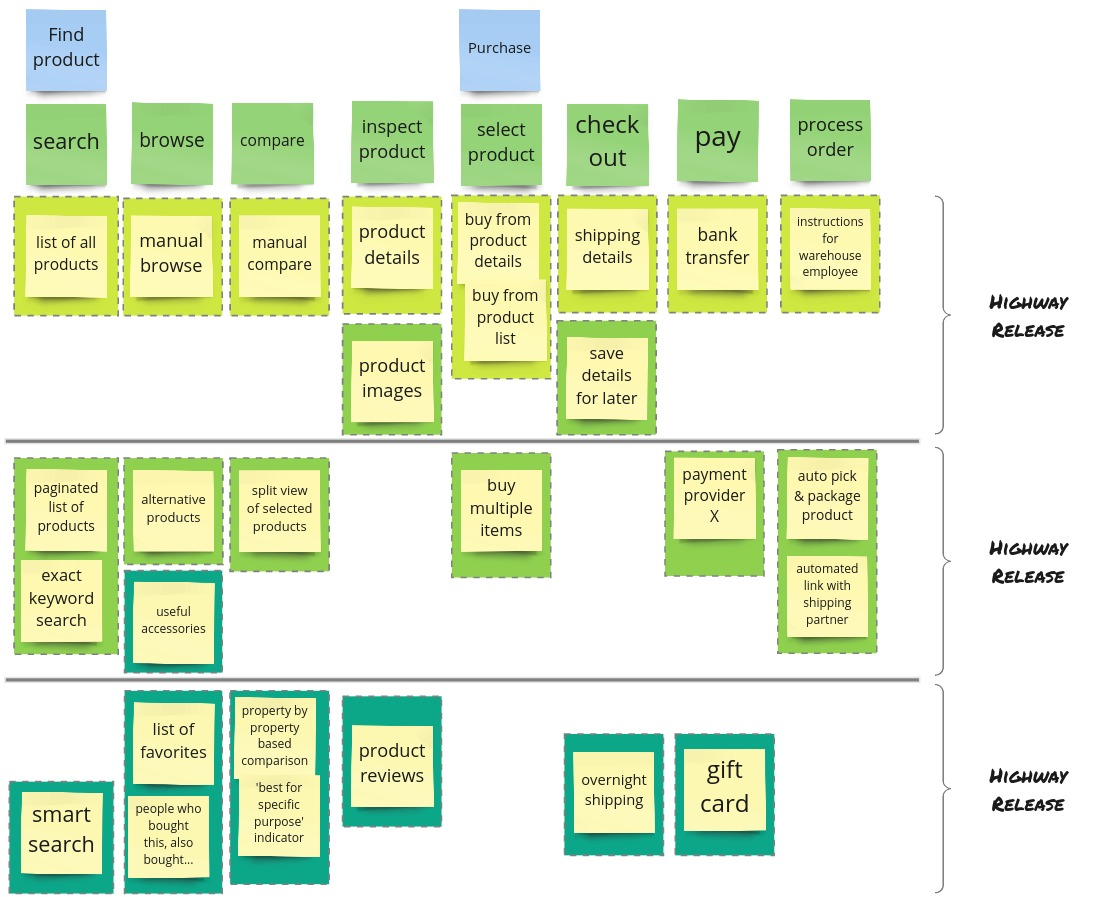
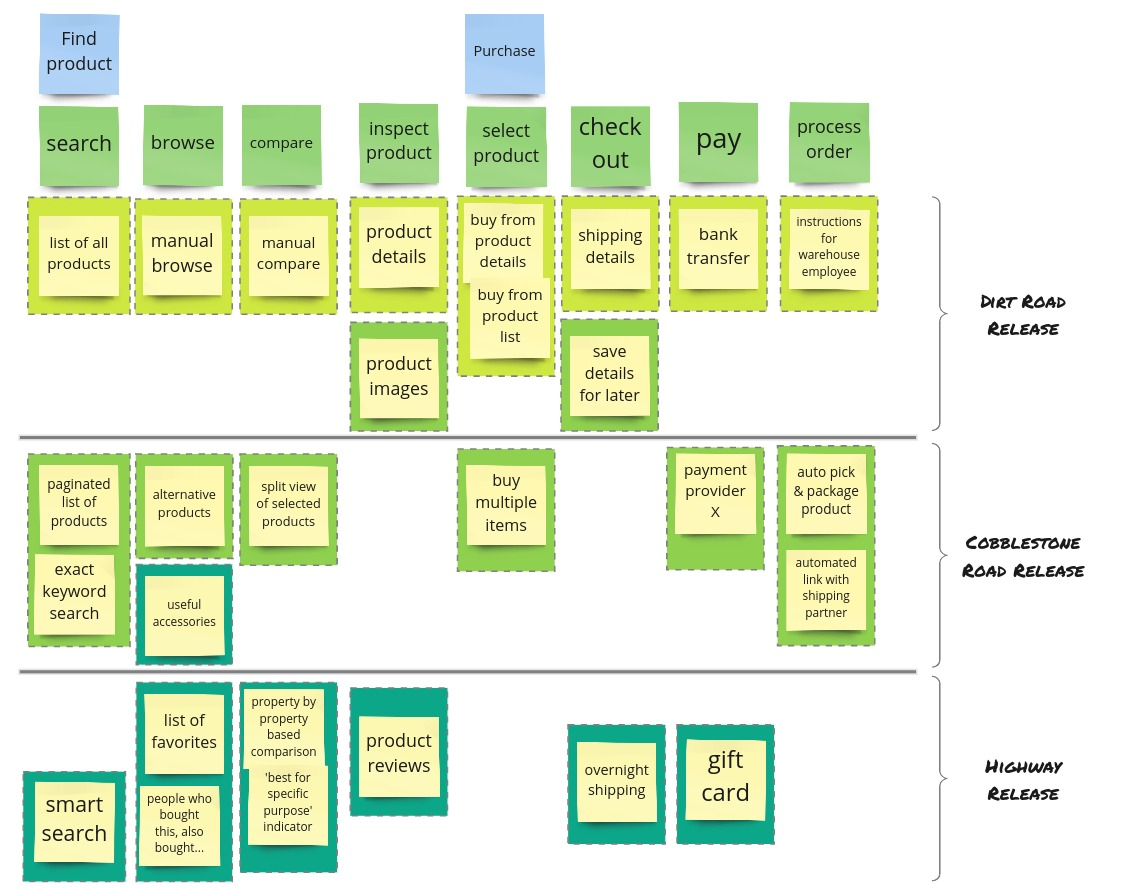
improved text, fixed image

diff --git a/_drafts/dimensional-planning-2.md b/_drafts/dimensional-planning-2.md
@@ -11,10 +11,10 @@ image: /attachments/blogposts/2020/dimensions-features.jpg
 In a previous post, we [introduced the Dimensional Planning
 technique](/2020/09/02/dimensional-planning.html), and shared [how we used this
 for a product we worked on](/2020/09/30/dimensional-planning-a-story.html). In
-this post, we will go more in depth with this technique and show how you can use
-the roads metaphor not only for releases of a product, but for individual
-features as well. This provides a fine-grained mechanism for planning and
-realizing small, valuable increments.
+this post, we will go more in depth and show how you can use the roads metaphor
+not only for releases of a product, but for individual features as well. This
+provides a fine-grained mechanism for planning and delivering small, valuable
+increments.
 
 - [Product level dimensions](#product-level-dimensions)
 - [Feature level dimensions](#feature-level-dimensions)
@@ -24,86 +24,90 @@ realizing small, valuable increments.
 
 ## Product level dimensions
 
-We can apply dimensional planning for a software product at two levels: at the
-product level and at the feature level. In the previous posts, we focused mainly
-on Dirt Road/Cobblestone Road/Highway dimensions of a product. 
+We can apply dimensional planning for a software product at two levels: product
+level and feature level. In the previous posts, we focused mainly on product
+level dimensions - the Dirt Road / Cobblestone Road / Highway versions of a
+product. 
 
 The Dirt Road version is a minimal set of functionality, where the guiding
-question is **what can we leave out?**. A Dirt Road web shop could have a
-product catalogue and a shopping basket, but supply management, payment and
-order processing are still manual processes.
-
-The Cobblestone Road version of a product is a **good enough** version, it does
-the job, but no more than that. The Highway version is a full blown
-implementation, where the guiding question is **what do we still want to pay
-for?**
+question is **what can we leave out?** A Dirt Road web shop could have a
+product catalogue and a shopping basket, while we keep supply management,
+payment and order processing as manual processes. The Cobblestone Road version
+does the job, but not more than that. The guiding questions is **is it good
+enough?** The Highway version is a full blown implementation, where the guiding
+question is **what do we still want to pay for?**
 
 ![dimensions of a product](/attachments/blogposts/2020/dimensions-releases.jpg)
 {: class="post-image post-image-50" }
 
 ## Feature level dimensions
 
-We can also look at a single feature and define Dirt Road/Cobblestone
-Road/Highway dimensions for that feature. Let's look at features of a web shop. The dimensions of the _Search_ feature could be: 
-- _Dirt Road_: just show list of all products, and lets the user use the browser search in page functionality;
-- _Cobblestone Road_: offer keyword search with exact matching;
-- _Highway_: provide smart search using word similarity and a list of synonyms
+We can also look at a single feature and define Dirt Road, Cobblestone
+Road & Highway dimensions for that feature. Let's look at features of a web shop. The dimensions of the _Search_ feature could be: 
+- _Dirt Road_ - just show list of all products and let the user use the browser search functionality;
+- _Cobblestone Road_ - offer keyword search with exact matching;
+- _Highway_ - provide smart search using word similarity and a list of synonyms.
 
-We can define dimensions for other features as well, for instance for order
-processing, or define dimensions based on quality requirements. An example of
-the latter for the Product Catalogue is a Dirt Road version for a limited
-catalogue of say max 30 products, which is shown fully. The Cobblestone Road
-version supports way more products with pagination (and possibly lazy loading). 
+We can define dimensions for instance based on quality requirements: the Dirt
+Road for the Product Catalogue could be a limited catalogue of say 30 products,
+which is shown fully. The Cobblestone Road version supports way more products
+with pagination and possibly lazy loading. 
+
+Having defined dimensions of features, you can base your product releases on this, as illustrated below.
 
 ![dimensions of features, fine-grained planning](/attachments/blogposts/2020/dimensions-features.jpg)
 
-You could call the dimensions of a feature (or story) this **alternate depths**
-of this feature. We elaborate the feature in several iterations, going from a
-shallow implementation (sometimes a manual workaround) to a full blown version
-with all bells and whistles. So dimensions of a feature embody **true iterative
-working** and a feature or user story can repeatedly show up in the backlog,
-with different dimensions.
+You could call the dimensions of a feature or user story **alternate depths** of
+this feature. We elaborate the feature in several iterations, going from a
+shallow implementation or manual workaround to a full blown version with all
+bells and whistles. So feature dimensions embody **true iterative working**.
+This means that a feature or user story can repeatedly show up in the backlog,
+for different dimensions.
 
-There are no hard rules for what is Dirt Road and what is Cobblestone Road.
-Instead, the feature dimensions are the result of negotiation, based on the
-guiding questions _what can we leave out_ and _what is good enough_, with
-respect to the intended product outcomes.
+There are no hard rules for what a Dirt Road version and what a Cobblestone Road
+version of a feature is. Feature dimensions result from negotiation of the development team and their business or customer, guided by _what can we leave out_ and _what is good enough_ to achieve intended outcomes.
 
 ## An example of feature dimensions
 
-This gives us a more fine-grained way of planning and negotiation. It provides
-more options to scale down a planned feature, e.g. from Highway to Cobble or to
-Dirt when we want to deliver at a specific date. 
+Having feature level dimensions provides a more fine-grained way of planning and
+negotiation. It provides more options to scale down a planned feature, e.g. from
+Highway to Cobblestone or Dirt Road when we want to deliver something valuable
+sooner.
 
-The picture below shows part of a user story map for a web shop, which has
-features like Search, Browse, Compare, Check out, and Pay.
+The picture below shows part of a user story map for a web shop, with features
+like Search, Browse, Compare, Check out, and Pay.
 
 ![example story map](/attachments/blogposts/2020/dp-story-map-1.jpg)
 
-We can define on dimensions for the features. The Search Dirt Road is the list
-of products, while the Compare feature the Dirt Road is a manual workaround:
-buyers can compare product details themselves, for instance by opening the two
-products in separate browser tabs. The Dirt Road Pay feature is pay by bank
-transfer: the web shop shows bank account details (so also a manual version).
-Payment provider integration is Cobblestone Road, offering & redeeming gift
-cards is the Highway for now. 
-
-![example story map with dimensions for features](/attachments/blogposts/2020/dp-story-map-2.jpg)
+We can define dimensions for the features. The Search Dirt Road is a simple list
+of products, while the Compare Dirt Road is a manual workaround: buyers can
+compare product details themselves, for instance by opening two products in
+separate browser tabs. The Pay Dirt Road is payment by bank transfer: the web
+shop shows just bank account details, the rest is manually processed.
+Integrating with a payment provider is Cobblestone Road, gift cards are the
+Highway for now.
 
 For Inspect Product, the minimal version is showing the details, because
 otherwise buyers do not have sufficient information to decide to buy. The
 Cobblestone Road includes images.
 
-Dirt Road Order Processing is mostly a manual process: the system shows
-information for the warehouse employee who will search & package the order. We
-first want to test the market before investing in order processing automation.
+Dirt Road Order Processing is mostly manual: the system shows information for
+the warehouse employee who will search & package the products. We first want to
+test the market before investing in order processing automation.
+
+![example story map with dimensions for features](/attachments/blogposts/2020/dp-story-map-2.jpg)
+
+Having different dimensions of the Pay feature enables team negotiation about
+how well do we want to do the Pay feature, what is good enough and what more are
+we willing to invest in.
 
 ## Fine grained planning & steering
 
 Based on the dimensions of features, we can decide on Dirt Road and Cobblestone
-Road releases. We decide to include product images and save details for later
-for now in the Dirt Road release, although they are probably the first to move
-out when we have to reduce scope for the first release.
+Road releases for the web shop. We decide to include product images and save
+details for later for now in the Dirt Road release, although they are probably
+the first thing to be moved out when we need to reduce scope for the first
+release.
 
 ![example story map with releases](/attachments/blogposts/2020/dp-story-map-3.jpg)
 
@@ -113,18 +117,19 @@ enough.
 
 ## Summary
 
-We can apply the Dirt Road-Cobblestone Road-Highway metaphor of Dimensional
+We can apply the Dirt Road - Cobblestone Road - Highway metaphor of Dimensional
 Planning not only to whole releases, but also to individual features. We can
-define Dirt Road, Cobblestone Road, and Highway versions of a feature.
+define Dirt Road, Cobblestone Road, and Highway versions of a feature, for
+instance based on different quality requirements.
 
-This facilitates iterative development of features and user stories. A story can
-occur multiple times in the backlog, in different versions. By defining the Dirt
-Road story and starting with that, this reduces the risk of story perfectionism
-and analysis paralysis. 
+This facilitates iterative development of features and user stories. A user
+story can occur multiple times in the backlog, in different versions. By
+defining the Dirt Road story and starting with that, this reduces the risk of
+story perfectionism and analysis paralysis. 
 
-Dimensions of features also facilitates fine grained planning, tracking and
-steering. Instead of all-or-nothing decision when reducing scope - should we
-remove or include this story? - we can decide to reduce the 'depth' of a story.
+Feature dimensions also facilitate finer grained planning, tracking and
+steering. Instead of all-or-nothing decisions for reducing scope - _should we
+remove or include this story?_ - we can decide to keep a story but reduce its depth.
 
 User story dimensions provide an extra way of splitting large user stories, in a
 true iterative way. In this way, dimensions enable the _Negotiable_ property of
@@ -134,7 +139,7 @@ stories](https://xp123.com/articles/invest-in-good-stories-and-smart-tasks/).
 ## References
 
 The idea of applying dimensions to both releases and features originates from
-Koen Van Exem (inventor of Dimensional Planning. He calls them _Alternate
+Koen Van Exem, the inventor of Dimensional Planning. He calls them _Alternate
 Futures_ and _Alternate Depths_. See also [Koen's original
 slides](https://www.slideshare.net/inxin/dimensional-planning-30790935)
 
